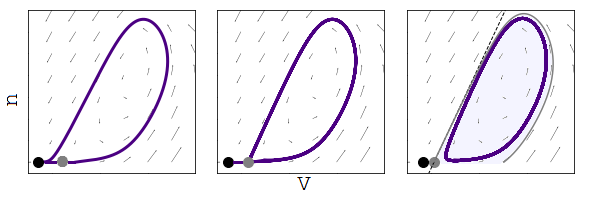
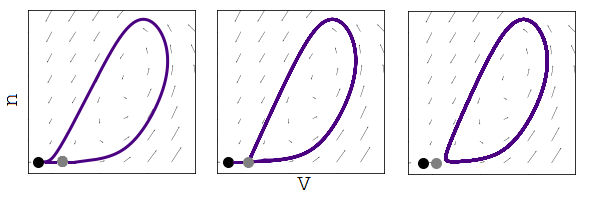
phase planes for presentation

Changed region(s): [[0.6633, 0.0296, 0.9648, 0.8867]]

diff --git a/Neuron.py b/Neuron.py
@@ -57,7 +57,7 @@ def find_points(tau_n, Iapp, v0=[-75,-32.3,-50]*mV,n0=[.0,0,.005], plot = False)
         plot_field(tau_n, Iapp, plot=True)
         cut = np.where(V[-2]>=saddle[0])
 #        print(V[-2][cut])
-        plt.plot(V[-2][cut], n[-2][cut], color = 'grey', linewidth = 5)
+#        plt.plot(V[-2][cut], n[-2][cut], color = 'grey', linewidth = 5)
         plt.savefig('points/'+file_name+'.png', bbox_inches = 'tight') 
         plt.show()
 
@@ -131,21 +131,21 @@ def plot_everything(tau_n, Iapp, duration, I_noise, number =1, plot = False):
    
   
 def plot_bifurcation(t,V,n,node,saddle, sep_slope, cycle_boundary):
-    plt.figure(figsize=(8, 8))
-    plt.plot(V.T,n.T, color = '#4B0082', linewidth = 5)
-    plt.plot(node[0], node[1],marker='o', color='0', ms = 15)
-    y = np.linspace(-.1,.7,50)
-    x = sep_slope[0]/sep_slope[1]*(y-saddle[1])+saddle[0]
-    plt.plot(x,y, color = '0', linestyle = '--',linewidth = 5)
+    plt.figure(figsize=(3, 3))
+    plt.plot(V.T,n.T, color = '#4B0082', linewidth = 3)
+    plt.plot(node[0], node[1],marker='o', color='0', ms = 10)
+#    y = np.linspace(-.1,.7,50)
+#    x = sep_slope[0]/sep_slope[1]*(y-saddle[1])+saddle[0]
+#    plt.plot(x,y, color = '0', linestyle = '--',linewidth = 5)
     plt.xlim((-70,0))
-    plt.plot(saddle[0], saddle[1], marker = 'o', color = '.5', ms=15)
-    plt.xticks(fontsize=16)
+    plt.plot(saddle[0], saddle[1], marker = 'o', color = '.5', ms=10)
+    plt.xticks()
     plt.ylim((-.05,.7))
-    plt.yticks(fontsize=16)
-    plt.title(' ', fontsize = 16)
-    plt.xlabel('V (mV)', fontsize = 18)
-    plt.ylabel('n', fontsize = 18)
-    plt.tight_layout()
+    plt.yticks()
+#    plt.title(' ', fontsize = 16)
+#    plt.xlabel('V (mV)')
+#    plt.ylabel('n')
+#    plt.tight_layout()
     
 def plot_traces(t,V,n,node, saddle, sep_slope, cycle_boundary):
     '''plots voltage against time'''   
